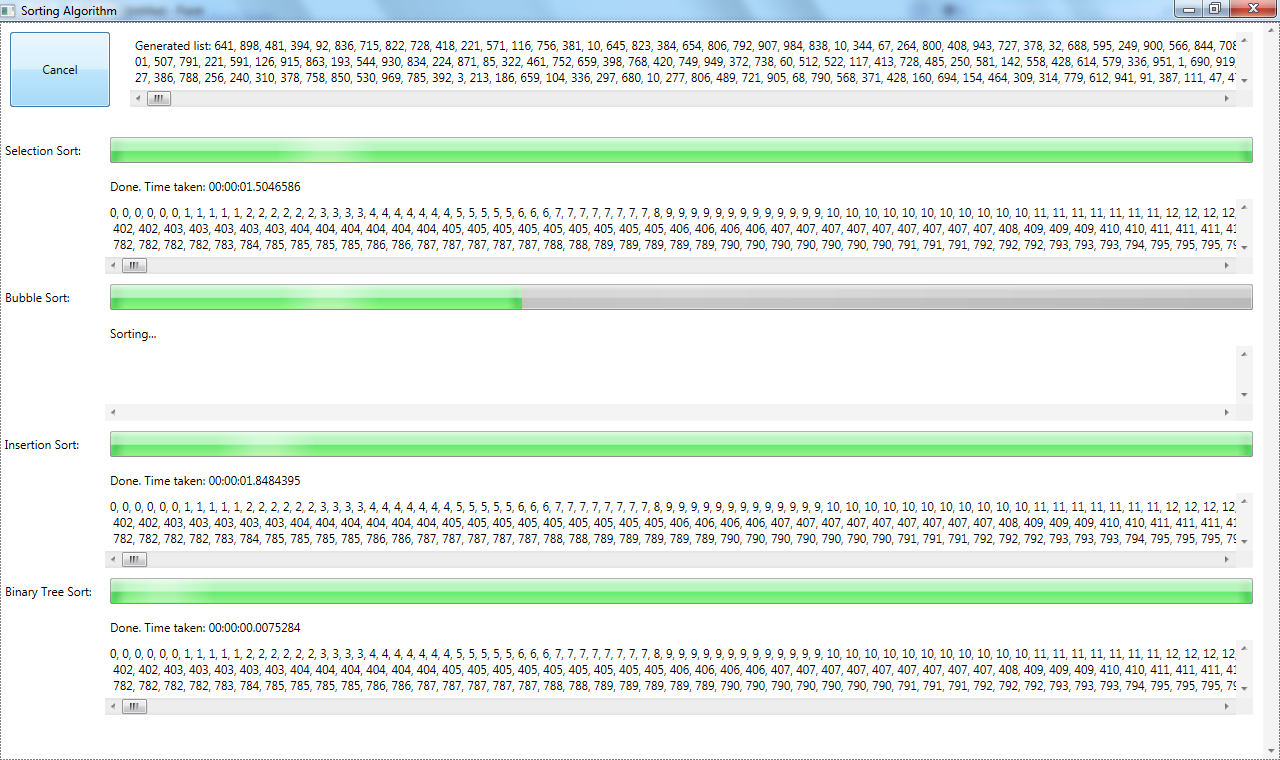
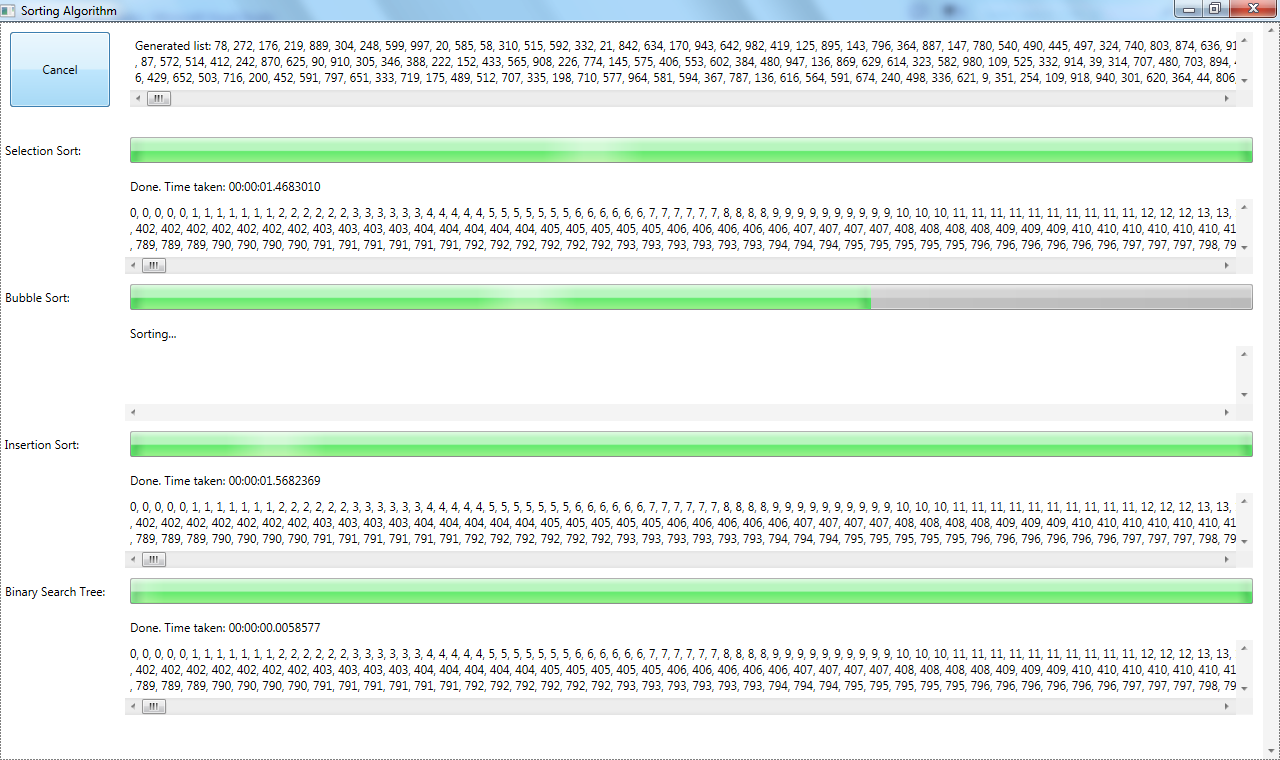
Rename to Binary Search Tree

diff --git a/SortingAlgorithms/MainWindow.xaml b/SortingAlgorithms/MainWindow.xaml
@@ -14,51 +14,51 @@
                 </DockPanel>
                 <StackPanel Margin="0, 10">
                     <DockPanel Margin="0, 10">
-                        <Label Width="100" DockPanel.Dock="Left">Selection Sort:</Label>
+                        <Label Width="120" DockPanel.Dock="Left">Selection Sort:</Label>
                         <ProgressBar x:Name="pbSelectionSort" Margin="10, 0"></ProgressBar>
                     </DockPanel>
                     <StackPanel>
-                        <Label x:Name="lblResultSelectionSort" Margin="105, 0, 0, 0">Idle.</Label>
+                        <Label x:Name="lblResultSelectionSort" Margin="125, 0, 0, 0">Idle.</Label>
                     </StackPanel>
                     <DockPanel>
-                        <ScrollViewer HorizontalScrollBarVisibility="Visible" Margin="105, 0, 10, 00" VerticalScrollBarVisibility="Visible" Height="75">
+                        <ScrollViewer HorizontalScrollBarVisibility="Visible" Margin="125, 0, 10, 00" VerticalScrollBarVisibility="Visible" Height="75">
                             <Label x:Name="lblResultSelectionSortList"></Label>
                         </ScrollViewer>
                     </DockPanel>
                     <DockPanel Margin="0, 10">
-                        <Label Width="100" DockPanel.Dock="Left">Bubble Sort:</Label>
+                        <Label Width="120" DockPanel.Dock="Left">Bubble Sort:</Label>
                         <ProgressBar x:Name="pbBubbleSort" Margin="10, 0"></ProgressBar>
                     </DockPanel>
                     <StackPanel>
-                        <Label x:Name="lblResultBubbleSort" Margin="105, 0, 0, 0">Idle.</Label>
+                        <Label x:Name="lblResultBubbleSort" Margin="125, 0, 0, 0">Idle.</Label>
                     </StackPanel>
                     <DockPanel>
-                        <ScrollViewer HorizontalScrollBarVisibility="Visible" Margin="105, 0, 10, 00" VerticalScrollBarVisibility="Visible" Height="75">
+                        <ScrollViewer HorizontalScrollBarVisibility="Visible" Margin="125, 0, 10, 00" VerticalScrollBarVisibility="Visible" Height="75">
                             <Label x:Name="lblResultBubbleSortList"></Label>
                         </ScrollViewer>
                     </DockPanel>
                     <DockPanel Margin="0, 10">
-                        <Label Width="100" DockPanel.Dock="Left">Insertion Sort:</Label>
+                        <Label Width="120" DockPanel.Dock="Left">Insertion Sort:</Label>
                         <ProgressBar x:Name="pbInsertionSort" Margin="10, 0"></ProgressBar>
                     </DockPanel>
                     <StackPanel>
-                        <Label x:Name="lblResultInsertionSort" Margin="105, 0, 0, 0">Idle.</Label>
+                        <Label x:Name="lblResultInsertionSort" Margin="125, 0, 0, 0">Idle.</Label>
                     </StackPanel>
                     <DockPanel>
-                        <ScrollViewer HorizontalScrollBarVisibility="Visible" Margin="105, 0, 10, 00" VerticalScrollBarVisibility="Visible" Height="75">
+                        <ScrollViewer HorizontalScrollBarVisibility="Visible" Margin="125, 0, 10, 00" VerticalScrollBarVisibility="Visible" Height="75">
                             <Label x:Name="lblResultInsertionSortList"></Label>
                         </ScrollViewer>
                     </DockPanel>
                     <DockPanel Margin="0, 10">
-                        <Label Width="100" DockPanel.Dock="Left">Binary Tree Sort:</Label>
-                        <ProgressBar x:Name="pbBinaryTreeSort" Margin="10, 0"></ProgressBar>
+                        <Label Width="120" DockPanel.Dock="Left">Binary Search Tree:</Label>
+                        <ProgressBar x:Name="pbBinarySearchTree" Margin="10, 0"></ProgressBar>
                     </DockPanel>
                     <StackPanel>
-                        <Label x:Name="lblResultBinaryTreeSort" Margin="105, 0, 0, 0">Idle.</Label>
+                        <Label x:Name="lblResultBinarySearchTree" Margin="125, 0, 0, 0">Idle.</Label>
                     </StackPanel>
                     <DockPanel>
-                        <ScrollViewer HorizontalScrollBarVisibility="Visible" Margin="105, 0, 10, 00" VerticalScrollBarVisibility="Visible" Height="75">
-                            <Label x:Name="lblResultBinaryTreeSortList"></Label>
+                        <ScrollViewer HorizontalScrollBarVisibility="Visible" Margin="125, 0, 10, 00" VerticalScrollBarVisibility="Visible" Height="75">
+                            <Label x:Name="lblResultBinarySearchTreeList"></Label>
                         </ScrollViewer>
                     </DockPanel>
                 </StackPanel>

diff --git a/UnitTest/BinarySearchTreeTest.cs b/UnitTest/BinarySearchTreeTest.cs
@@ -8,7 +8,7 @@ using System.Threading;
 namespace UnitTest
 {
     [TestClass]
-    public class BinaryTreeSortTest
+    public class BinarySearchTreeTest
     {
         List<int> _randomIntList = new List<int>();
         List<char> _randomCharList = new List<char>();
@@ -24,47 +24,47 @@ namespace UnitTest
         }
 
         [TestMethod]
-        public void TestBinaryTreeSortListOfInt()
+        public void TestBinarySearchTreeListOfInt()
         {
-            List<int> result = BinaryTreeSort.Sort<List<int>, int>(TestInitialiser.IntList, _cancellationToken, _progress);
+            List<int> result = BinarySearchTree.Sort<List<int>, int>(TestInitialiser.IntList, _cancellationToken, _progress);
 
             TestInitialiser.AssertInt(result);
         }
 
         [TestMethod]
-        public void TestBinaryTreeSortRandomListOfInt()
+        public void TestBinarySearchTreeRandomListOfInt()
         {
-            List<int> result = BinaryTreeSort.Sort<List<int>, int>(_randomIntList, _cancellationToken, _progress);
+            List<int> result = BinarySearchTree.Sort<List<int>, int>(_randomIntList, _cancellationToken, _progress);
 
             TestInitialiser.AssertRandom<int>(result);
         }
 
         [TestMethod]
-        public void TestBinaryTreeSortListOfChar()
+        public void TestBinarySearchTreeListOfChar()
         {
-            List<char> result = BinaryTreeSort.Sort<List<char>, char>(TestInitialiser.CharList, _cancellationToken, _progress);
+            List<char> result = BinarySearchTree.Sort<List<char>, char>(TestInitialiser.CharList, _cancellationToken, _progress);
 
             TestInitialiser.AssertChar(result);
         }
 
         [TestMethod]
-        public void TestBinaryTreeSortRandomListOfChar()
+        public void TestBinarySearchTreeRandomListOfChar()
         {
-            List<char> result = BinaryTreeSort.Sort<List<char>, char>(_randomCharList, _cancellationToken, _progress);
+            List<char> result = BinarySearchTree.Sort<List<char>, char>(_randomCharList, _cancellationToken, _progress);
 
             TestInitialiser.AssertRandom<char>(result);
         }
 
         [TestMethod]
-        public void TestBinaryTreeSortListOfString()
+        public void TestBinarySearchTreeListOfString()
         {
-            ArrayList result = BinaryTreeSort.Sort<ArrayList, string>(TestInitialiser.StringList, _cancellationToken, _progress);
+            ArrayList result = BinarySearchTree.Sort<ArrayList, string>(TestInitialiser.StringList, _cancellationToken, _progress);
 
             TestInitialiser.AssertString(result);
         }
 
         [TestMethod]
-        public void TestBinaryTreeSortRandomListOfString()
+        public void TestBinarySearchTreeRandomListOfString()
         {
 
         }

diff --git a/SortingAlgorithms/MainWindow.xaml.cs b/SortingAlgorithms/MainWindow.xaml.cs
@@ -64,12 +64,12 @@ namespace SortingAlgorithms
             Task taskSelectionSort = PrepareAndRunSort(SelectionSort.Sort, randomIntList, pbSelectionSort, lblResultSelectionSort, lblResultSelectionSortList, _tokenSource.Token);
             Task taskBubbleSort = PrepareAndRunSort(BubbleSort.Sort, randomIntList, pbBubbleSort, lblResultBubbleSort, lblResultBubbleSortList, _tokenSource.Token);
             Task taskInsertionSort = PrepareAndRunSort(InsertionSort.Sort, randomIntList, pbInsertionSort, lblResultInsertionSort, lblResultInsertionSortList, _tokenSource.Token);
-            Task taskBinaryTreeSort = PrepareAndRunSort(BinaryTreeSort.Sort, randomIntList, pbBinaryTreeSort, lblResultBinaryTreeSort, lblResultBinaryTreeSortList, _tokenSource.Token);
+            Task taskBinarySearchTree = PrepareAndRunSort(BinarySearchTree.Sort, randomIntList, pbBinarySearchTree, lblResultBinarySearchTree, lblResultBinarySearchTreeList, _tokenSource.Token);
 
             taskList.Add(taskSelectionSort);
             taskList.Add(taskBubbleSort);
             taskList.Add(taskInsertionSort);
-            taskList.Add(taskBinaryTreeSort);
+            taskList.Add(taskBinarySearchTree);
 
             await Task.WhenAll(taskList);
 

diff --git a/SortingAlgorithmsBusinessAction/BinarySearchTree.cs b/SortingAlgorithmsBusinessAction/BinarySearchTree.cs
@@ -9,7 +9,7 @@ using System.Threading.Tasks;
 
 namespace SortingAlgorithmsBusinessAction
 {
-    public class BinaryTreeSort
+    public class BinarySearchTree
     {
         public static List<int> Sort(List<int> collectionToSort, CancellationToken cancellationToken, IProgress<int> progress)
         {

diff --git a/README.md b/README.md
@@ -5,7 +5,7 @@ Implementation of the following sort algorithms in C#.
  - selection sort
  - bubble sort
  - insertion sort
- - binary tree sort
+ - binary search tree sort
  
 Also contains a WPF gui using the Task Parallel Library (TPL).
 
